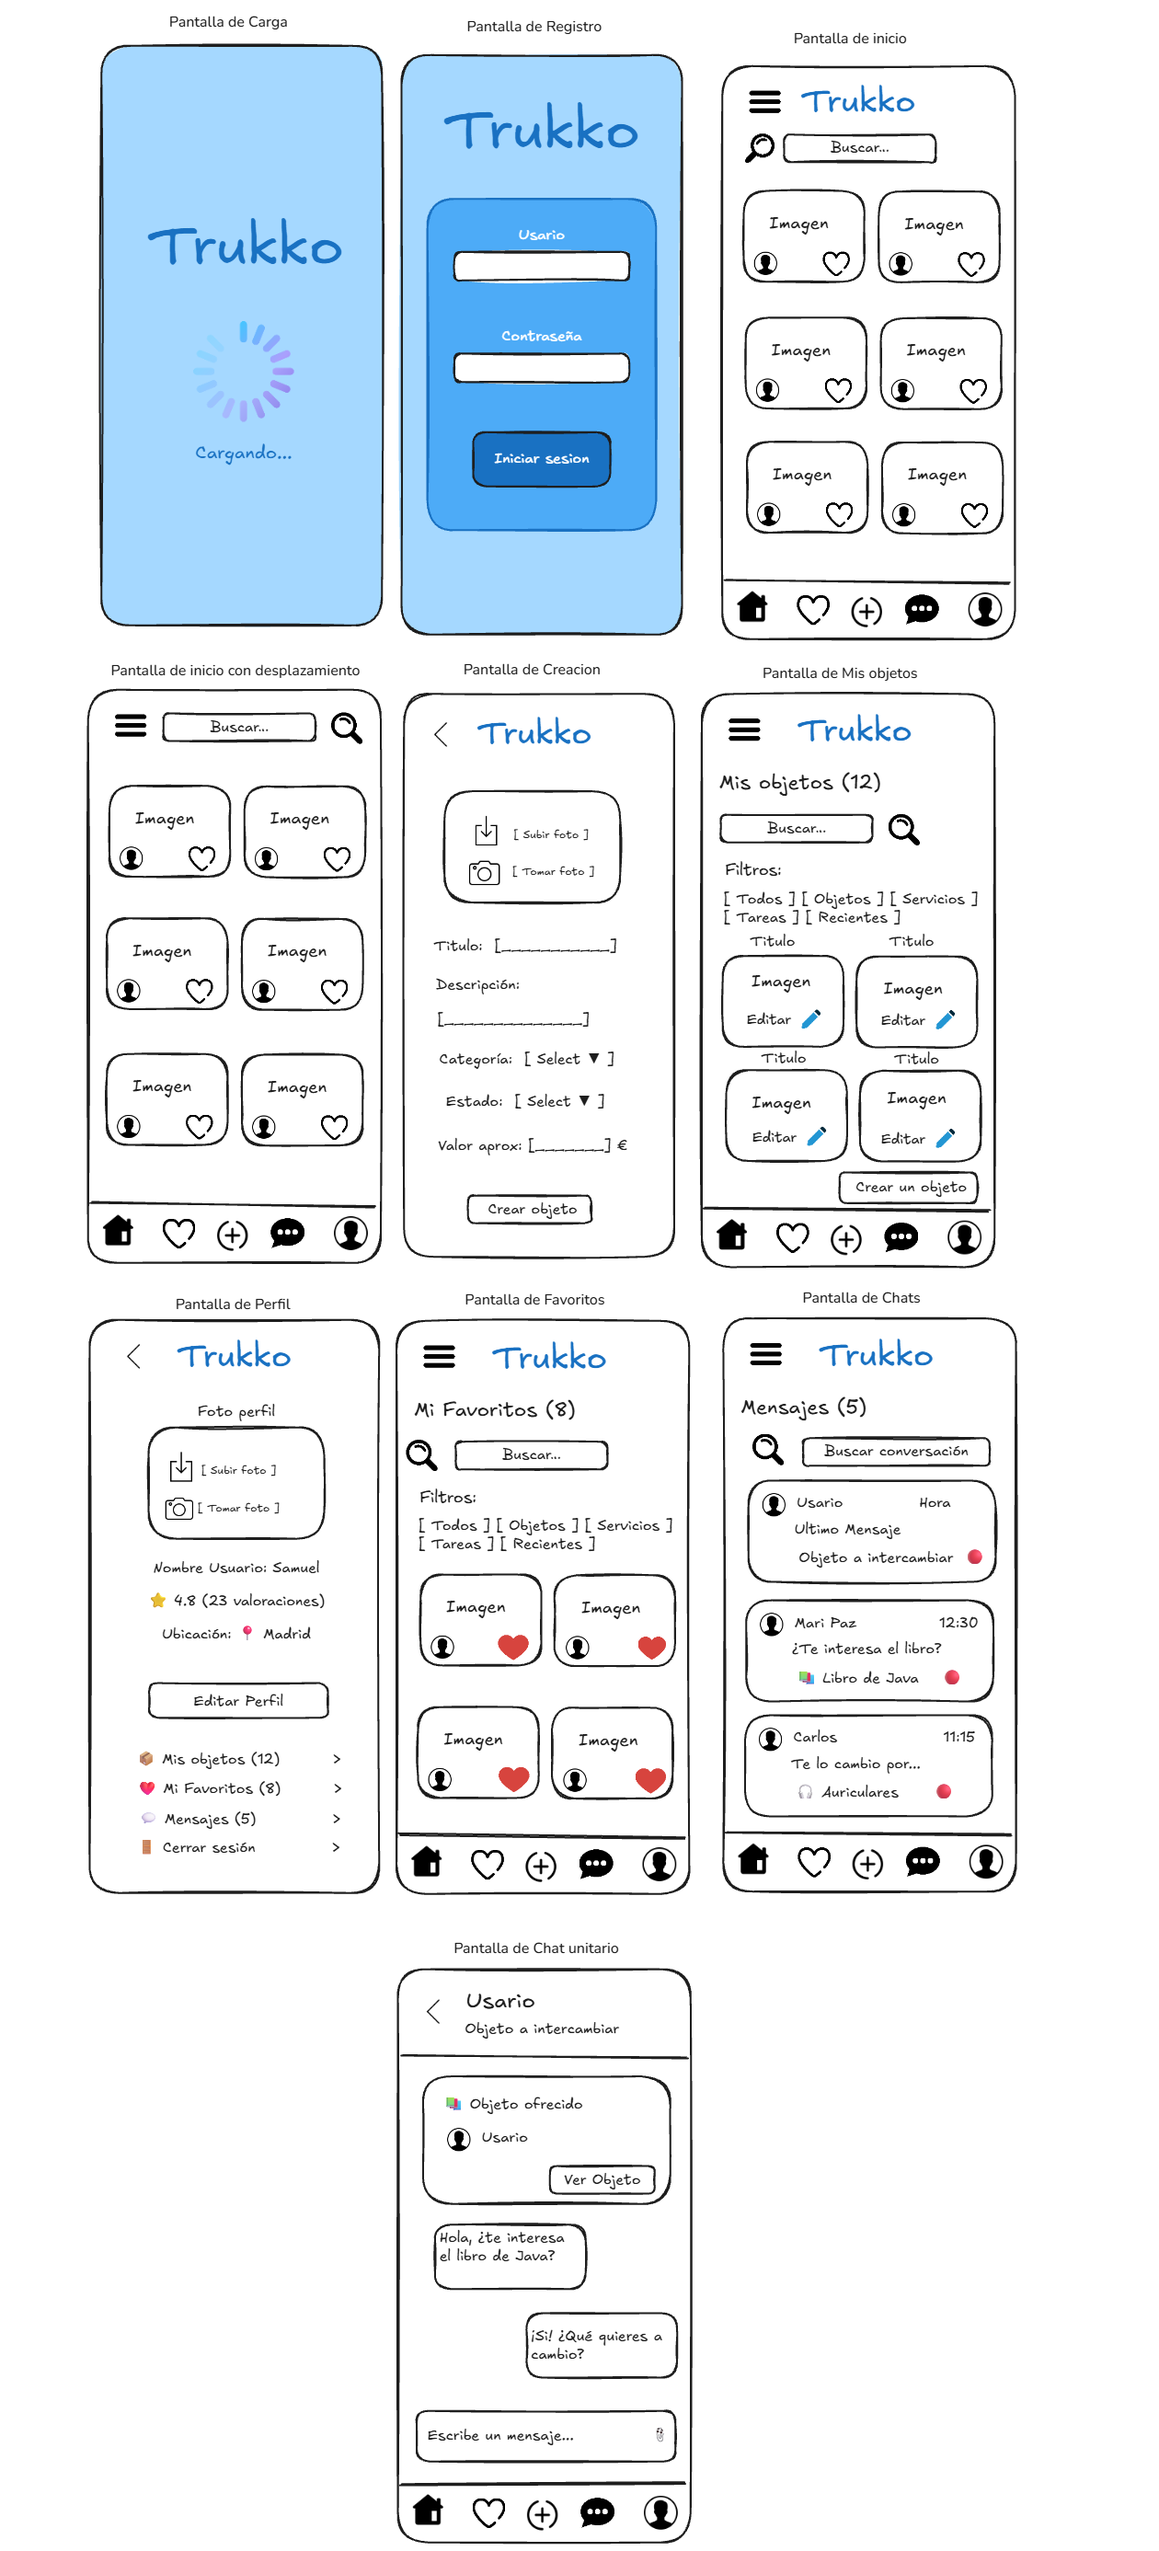
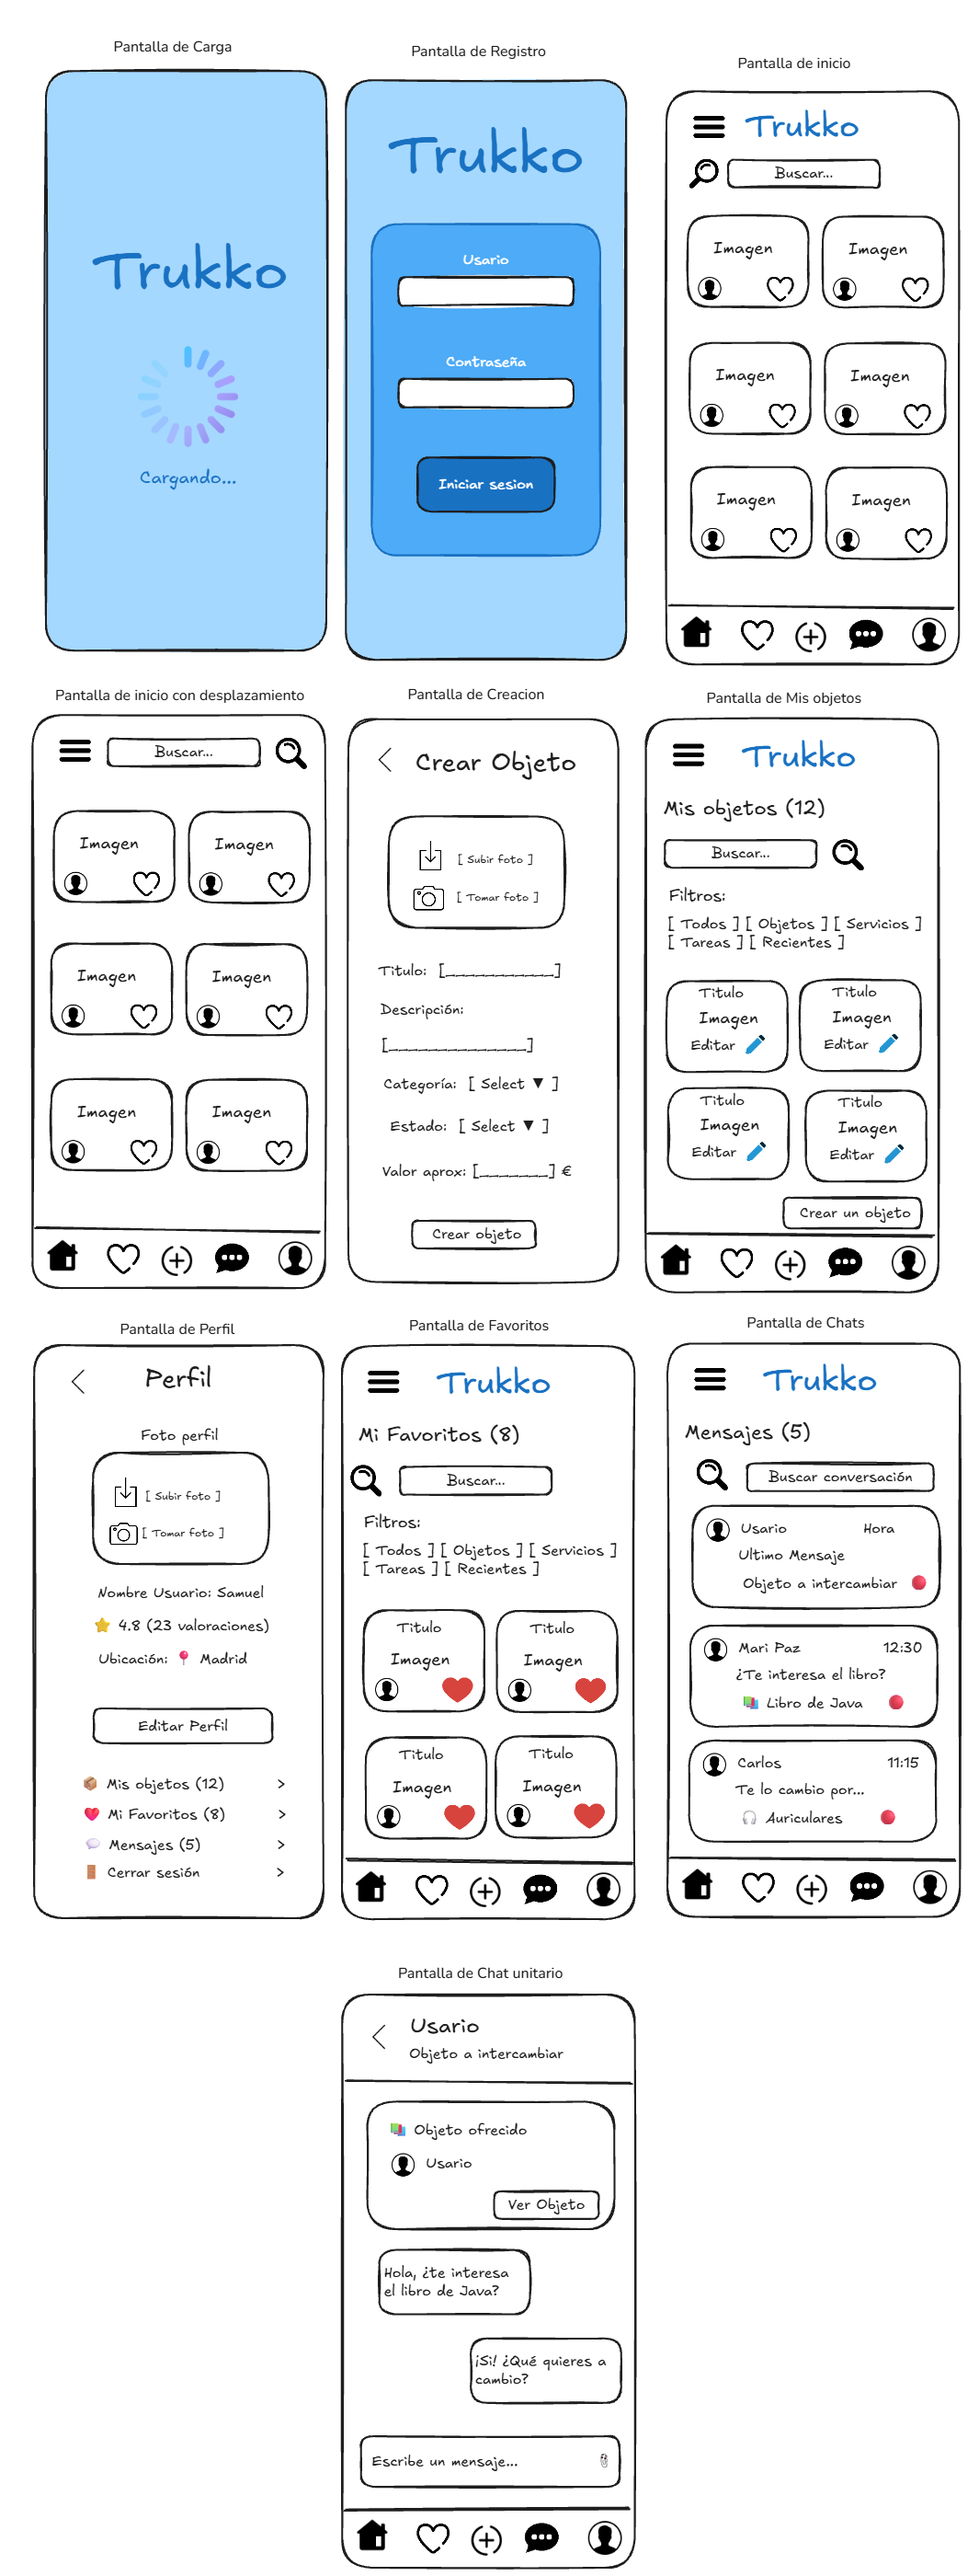
Diseño Web y movil de Trukko terminado

Changed region(s): [[0.031, 0.0, 0.9915, 1.0]]

diff --git a/Readme.md b/Readme.md
@@ -39,30 +39,73 @@ Diseñar y desarrollar una aplicación completa que integre los conocimientos de
 **Descripción:**
 Plataforma donde los usuarios publican objetos que ya no usan (libros, apuntes, componentes, periféricos, servicios, tareas) y otros pueden solicitar un intercambio. El dueño acepta o rechaza la solicitud. La app incluye un sistema de favoritos y mensajería interna para gestionar los trueques.
 
+---
+
 ### **Diseño en Móvil**
 
 ![imagen](/Img/Movil.png)
 
 > **Pantallas diseñadas:**
+>
 > 1. **Pantalla de Carga:** Logo de Trukko con icono animado y texto "Cargando...".
-> 2. **Pantalla de Registro:** Formulario de usuario y contraseña, botón "Crear Ropero" y opción "Iniciar sin Ropero".
-> 3. **Pantalla de Inicio:** Barra superior con logo y buscador. Rejilla de 2 columnas con tarjetas (imagen, icono de perfil, corazón de favorito). Barra de navegación inferior con 5 iconos: Inicio, Favoritos, Subir (+), Mensajes, Perfil.
-> 4. **Pantalla de Inicio con desplazamiento:** Similar a la anterior, pero la barra superior muestra un buscador expandido y el logo se ha desplazado. La rejilla de productos es más grande.
-> 5. **Pantalla de Creación (completa):** Vista previa de foto, botones "Subir foto" y "Tomar foto", formulario con Título, Descripción, Categoría, Estado, Valor aprox., Ubicación/Entrega, y botón "Crear objeto".
-> 6. **Pantalla de Mis Objetos:** Título "Mis objetos (12)", buscador, filtros por categoría, rejilla de tarjetas con imagen y botón "Editar", botón "Crear un objeto".
-> 7. **Pantalla de Perfil:** Foto de perfil, nombre, usuario, valoración (⭐ 4.8), ubicación, botón "Editar Perfil", y menú con: Mis objetos, Mis favoritos, Cerrar sesión.
-> 8. **Pantalla de Favoritos:** Título "Mis Favoritos (8)", buscador, filtros por categoría, rejilla de tarjetas con corazón relleno (❤).
+> 2. **Pantalla de Registro:** Formulario de usuario y contraseña, botón "Iniciar sesión" y opción "Iniciar sin Ropero".
+> 3. **Pantalla de Inicio:**
+>    - Barra superior: menú hamburguesa, logo "Trukko", icono de perfil "Tu Cuenta".
+>    - Barra de navegación horizontal: Inicio, Favoritos, Subir, Mensaje.
+>    - Buscador y rejilla de 2 columnas con tarjetas (imagen, icono de perfil, corazón de favorito).
+>    - Barra inferior con 5 iconos: Inicio, Favoritos, Subir (+), Mensajes, Perfil.
+> 4. **Pantalla de Inicio con desplazamiento:** Similar a la anterior, con buscador expandido y rejilla más grande.
+> 5. **Pantalla de Creación (Crear Objeto):**
+>    - Vista previa de foto, botones "Subir foto" y "Tomar foto".
+>    - Formulario: Título, Descripción, Categoría (Select), Estado (Select), Valor aprox. (€).
+>    - Botón "Crear objeto".
+> 6. **Pantalla de Mis Objetos:**
+>    - Título "Mis objetos (12)".
+>    - Buscador, filtros: [Todos] [Objetos] [Servicios] [Tareas] [Recientes].
+>    - Rejilla de tarjetas con imagen, botón "Editar" y corazón.
+>    - Botón "Crear un objeto".
+> 7. **Pantalla de Favoritos:**
+>    - Título "Mis Favoritos (8)".
+>    - Buscador, filtros: [Todos] [Objetos] [Servicios] [Tareas] [Recientes].
+>    - Rejilla de tarjetas con imagen, título y corazón relleno (❤).
+>    - Botón "Crear un objeto".
+> 8. **Pantalla de Perfil (Ajuste de Perfil):**
+>    - Foto de perfil con botones "Subir foto" y "Tomar foto".
+>    - Botón "Editar Perfil".
+>    - Nombre Usuario: Samuel, ⭐ 4.8 (23 valoraciones), Ubicación: 📍 Madrid.
+>    - Opciones: Mis objetos (12), Mis Favoritos (8), Mensajes (5), Cerrar sesión.
+> 9. **Pantalla de Mensajes (Lista de Chats):**
+>    - Título "Mensajes (5)".
+>    - Buscador de conversaciones.
+>    - Lista de chats con: Usuario, Hora, Último Mensaje, Objeto a intercambiar, y badge rojo de no leídos.
+>    - Ejemplos: Mari Paz (12:30, "¿Te interesa el libro?", Libro de Java), Carlos (11:15, "Te lo cambio por...", Auriculares), Luis Díaz (Ayer, "¿Tienes el Curso Java?", Manual TypeScript).
+> 10. **Pantalla de Chat Individual:**
+>     - Barra superior: "Usuario" y "Objeto a intercambiar".
+>     - Tarjeta del objeto ofrecido con botón "Ver Objeto".
+>     - Burbujas de mensaje (izquierda: otro usuario, derecha: tú).
+>     - Campo de texto "Escribe un mensaje..." con icono de enviar.
+>     - Barra inferior con el icono de Mensajes activo.
+
+---
 
 ### **Diseño en Web**
 
 ![imagen](/Img/Web.png)
 
 > **Pantallas diseñadas:**
-> 1. **Pantalla de Login:** Interfaz centrada con el logo de Trukko, campos de "Usuario" y "Contraseña", botón "Crear Ropero" y opción "Iniciar sin Ropero".
+>
+> 1. **Pantalla de Login:** Interfaz centrada con el logo de Trukko, campos de "Usuario" y "Contraseña", botón "Iniciar sesión" y opción "Iniciar sin Ropero".
 > 2. **Pantalla de Inicio (Web):**
->    - **Barra superior:** Menú hamburguesa, logo de Trukko centrado, icono de perfil "Tu Cuenta".
->    - **Barra de navegación horizontal:** Home, Favoritos, Sube, Mensajes.
->    - **Rejilla de productos:** 3 columnas con tarjetas (imagen, icono de perfil, corazón de favorito).
+>    - Barra superior: menú hamburguesa, logo de Trukko centrado, icono de perfil "Tu Cuenta".
+>    - Barra de navegación horizontal: Inicio, Favoritos, Subir, Mensaje.
+>    - Buscador y rejilla de 4 columnas con tarjetas (imagen, icono de perfil, corazón de favorito).
+>    - Barra inferior con 5 iconos: Inicio, Favoritos, Subir (+), Mensajes, Perfil.
+> 3. **Pantalla de Creación (Crear Objeto):** Similar a la móvil, pero adaptada a escritorio.
+> 4. **Pantalla de Mis Objetos:** Similar a la móvil, con rejilla más amplia.
+> 5. **Pantalla de Favoritos:** Similar a la móvil, con rejilla más amplia.
+> 6. **Pantalla de Ajuste de Perfil:** Similar a la móvil, adaptada a escritorio.
+> 7. **Pantalla de Mensajes (Lista de Chats):** Similar a la móvil, con más espacio.
+> 8. **Pantalla de Chat Individual:** Similar a la móvil, adaptada a escritorio.
 
 ---
 
@@ -75,7 +118,7 @@ Plataforma donde los usuarios publican objetos que ya no usan (libros, apuntes, 
 - **Sistema de favoritos** (corazón relleno/vacío).
 - **Mensajería interna** entre usuarios para negociar el trueque.
 - **Búsqueda y filtros** por categoría (Objetos, Servicios, Tareas) y recientes.
-- **Perfil de usuario** con objetos publicados, favoritos e historial.
+- **Perfil de usuario** con objetos publicados, favoritos, mensajes e historial.
 - **Subida de imágenes** para los objetos publicados.
 
 ---
@@ -92,7 +135,7 @@ Plataforma donde los usuarios publican objetos que ya no usan (libros, apuntes, 
 
 ### **Asignaturas que cubre:**
 
-- **Acceso a Datos** → relaciones usuario-objeto-solicitud, transacciones, estados, historial.
+- **Acceso a Datos** → relaciones usuario-objeto-solicitud-mensaje, transacciones, estados, historial.
 - **Desarrollo de Interfaces** → listados, detalle, formularios con imagen, sistema de favoritos, mensajería, navegación móvil/web.
 - **Programación de Servicios y Procesos** → API REST, tareas programadas (caducidad de solicitudes), mensajería (hilos/WebSockets).
 - **Sistemas de Gestión Empresarial** → flujo de negocio con reglas (estados de solicitud), roles, permisos.
